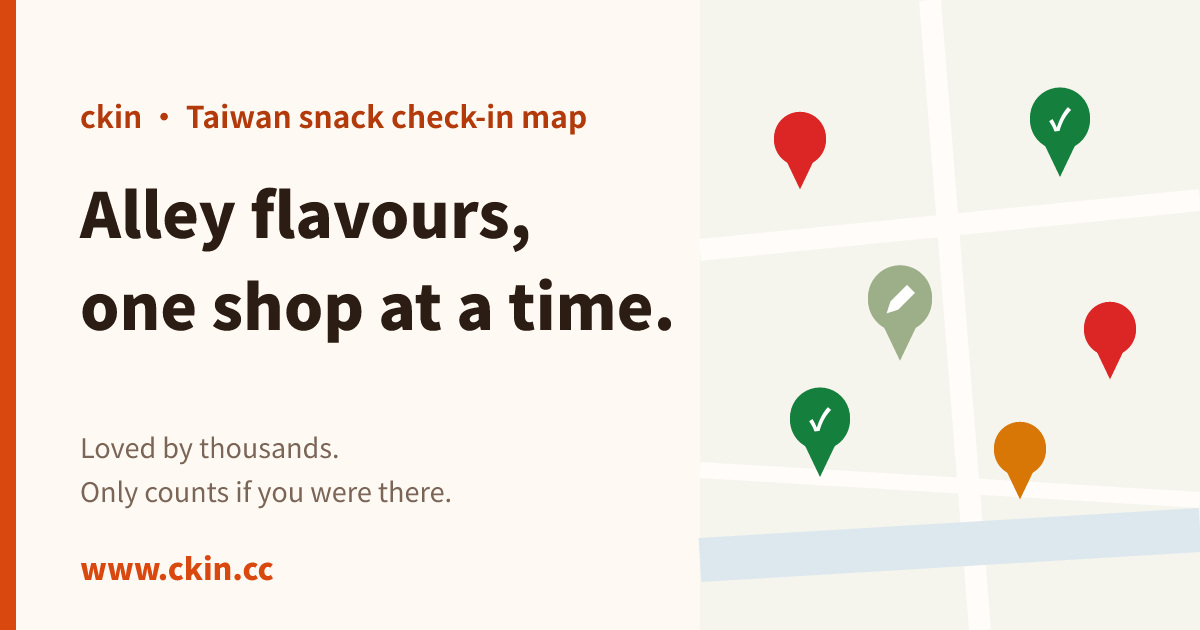
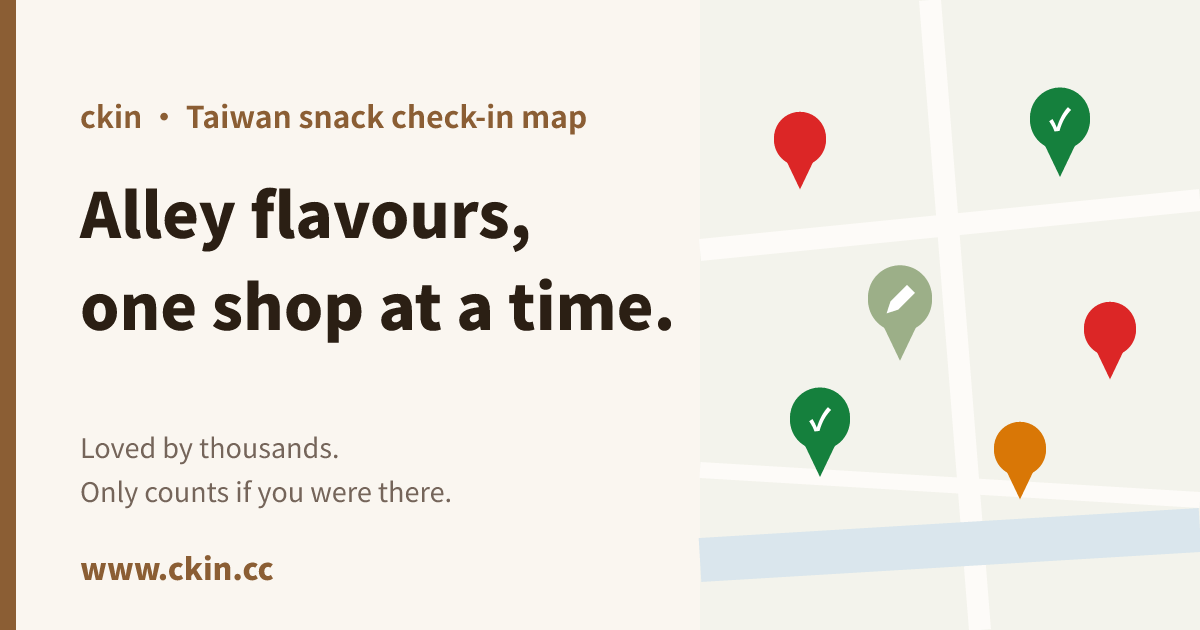
Palette: tea brown instead of chili red

diff --git a/site.css b/site.css
@@ -1,26 +1,26 @@
 /* ckin — shared site styles. Layout conventions follow odimeet.app / foldic.app. */
 :root {
-  --accent: #D9480F;        /* 辣椒紅 */
-  --accent-deep: #B23A0B;
-  --accent-tint: #FDEBDD;
-  --ink: #2B1D14;
-  --muted: #7A6556;
-  --bg: #FFF9F3;
-  --card: #FBEFE4;
-  --border: rgba(178, 58, 11, 0.16);
-  --shadow: 0 24px 80px rgba(43, 29, 20, 0.18);
+  --accent: #A0703F;        /* 茶湯棕 */
+  --accent-deep: #8B5E34;
+  --accent-tint: #F1E6D8;
+  --ink: #2B1F14;
+  --muted: #75655A;
+  --bg: #FAF6F0;
+  --card: #F3EBE0;
+  --border: rgba(139, 94, 52, 0.18);
+  --shadow: 0 24px 80px rgba(43, 31, 20, 0.16);
   --done: #15803d; --todo: #dc2626; --visited: #9caf88; --closing: #d97706;
 }
 @media (prefers-color-scheme: dark) {
   :root {
-    --accent: #FF7A3D;
-    --accent-deep: #FF9A66;
-    --accent-tint: #3A2116;
-    --ink: #F3EAE2;
-    --muted: #B9A595;
-    --bg: #17110D;
-    --card: #221913;
-    --border: rgba(255, 122, 61, 0.22);
+    --accent: #C9955F;
+    --accent-deep: #DDB07E;
+    --accent-tint: #33271B;
+    --ink: #F1EAE1;
+    --muted: #B3A392;
+    --bg: #151110;
+    --card: #1F1915;
+    --border: rgba(201, 149, 95, 0.22);
     --shadow: 0 24px 80px rgba(0, 0, 0, 0.55);
   }
 }
@@ -185,10 +185,10 @@ section.faq { max-width: 720px; margin: 0 auto; padding: 4.2rem 1.5rem 2rem; }
 .bottom-cta h2 { font-size: 1.8rem; font-weight: 900; margin-bottom: 1.4rem; }
 .cta {
   display: inline-flex; align-items: center; gap: 0.5rem; background: var(--accent-deep); color: #fff; border-radius: 12px;
-  padding: 0.9rem 1.6rem; font-weight: 700; font-size: 1rem; text-decoration: none; box-shadow: 0 6px 20px rgba(178, 58, 11, 0.3);
+  padding: 0.9rem 1.6rem; font-weight: 700; font-size: 1rem; text-decoration: none; box-shadow: 0 6px 20px rgba(139, 94, 52, 0.3);
 }
 .cta:hover { background: var(--accent); }
-@media (prefers-color-scheme: dark) { .cta { color: #17110D; } }
+@media (prefers-color-scheme: dark) { .cta { color: #151110; } }
 
 footer { border-top: 1px solid var(--border); padding: 2.2rem 1.5rem; text-align: center; color: var(--muted); font-size: 0.88rem; }
 footer a, nav .lang a { color: var(--accent-deep); text-decoration: none; margin: 0 0.2rem; }

diff --git a/privacy/index.html b/privacy/index.html
@@ -7,7 +7,7 @@
   <meta name="description" content="ckin 收集哪些資料、怎麼使用、保存多久。">
   <link rel="canonical" href="https://www.ckin.cc/privacy/">
   <link rel="icon" type="image/png" href="/favicon.png">
-  <meta name="theme-color" content="#D9480F">
+  <meta name="theme-color" content="#8B5E34">
   <link rel="stylesheet" href="/site.css">
 </head>
 <body>

diff --git a/zh/notes/why-ckin/index.html b/zh/notes/why-ckin/index.html
@@ -20,7 +20,7 @@
   <link rel="canonical" href="https://www.ckin.cc/zh/notes/why-ckin/">
   <link rel="icon" type="image/png" href="/favicon.png">
   <link rel="apple-touch-icon" href="/apple-touch-icon.png">
-  <meta name="theme-color" content="#D9480F">
+  <meta name="theme-color" content="#8B5E34">
   <link rel="stylesheet" href="/site.css">
 </head>
 <body>

diff --git a/zh/notes/index.html b/zh/notes/index.html
@@ -19,7 +19,7 @@
   <link rel="canonical" href="https://www.ckin.cc/zh/notes/">
   <link rel="icon" type="image/png" href="/favicon.png">
   <link rel="apple-touch-icon" href="/apple-touch-icon.png">
-  <meta name="theme-color" content="#D9480F">
+  <meta name="theme-color" content="#8B5E34">
   <link rel="stylesheet" href="/site.css">
 </head>
 <body>

diff --git a/en/index.html b/en/index.html
@@ -22,7 +22,7 @@
   <link rel="canonical" href="https://www.ckin.cc/en/">
   <link rel="icon" type="image/png" href="/favicon.png">
   <link rel="apple-touch-icon" href="/apple-touch-icon.png">
-  <meta name="theme-color" content="#D9480F">
+  <meta name="theme-color" content="#8B5E34">
   <link rel="stylesheet" href="/site.css">
 </head>
 <body>

diff --git a/index.html b/index.html
@@ -24,7 +24,7 @@
   <link rel="canonical" href="https://www.ckin.cc/">
   <link rel="icon" type="image/png" href="/favicon.png">
   <link rel="apple-touch-icon" href="/apple-touch-icon.png">
-  <meta name="theme-color" content="#D9480F">
+  <meta name="theme-color" content="#8B5E34">
   <link rel="stylesheet" href="/site.css">
 </head>
 <body>
